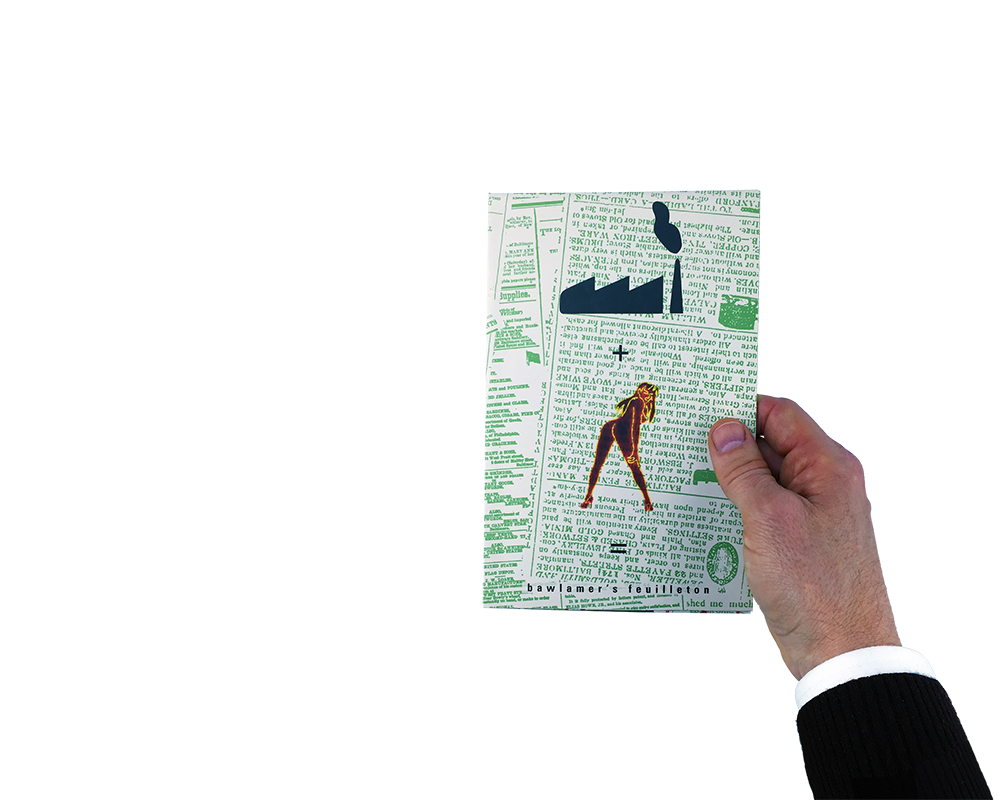
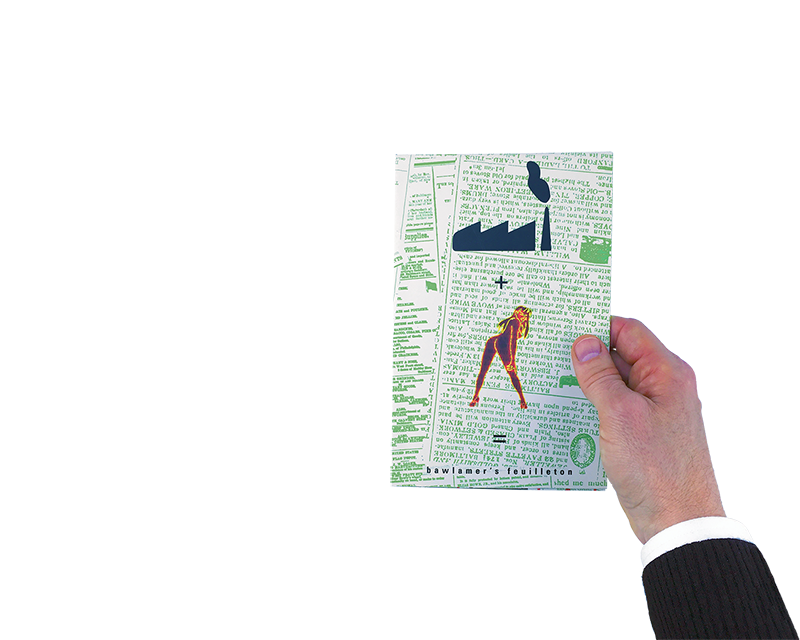
corrects small hands pictures

Changed region(s): [[0.4688, 0.2188, 1.0, 1.0]]

diff --git a/_posts/2016-08-22-bawlamers-feuilleton.html b/_posts/2016-08-22-bawlamers-feuilleton.html
@@ -13,19 +13,19 @@ description:
       <div class="container">
 
         <div class="row">
-          <div class="col-sm-9">
+          <div class="col-sm-3">
             <div class="left-column">
-                <img src="/media/bawlamers-feuilleton/zine_general.jpg">
+                <div class="hands"><img src="/media/bawlamers-feuilleton/hand1.png"></div>
+                <div class="hands"><img src="/media/bawlamers-feuilleton/hand2.png"></div>
+                <div class="hands"><img src="/media/bawlamers-feuilleton/hand3.png"></div>
+                <div class="hands"><img src="/media/bawlamers-feuilleton/hand4.png"></div>
+                <div class="hands"><img src="/media/bawlamers-feuilleton/hand5.png"></div>
             </div>
           </div>
 
-          <div class="col-sm-3">
+          <div class="col-sm-8 col-sm-offset-1">
             <div class="right-column">
-                <img class="hands" src="/media/bawlamers-feuilleton/hand1.png">
-                <img class="hands" src="/media/bawlamers-feuilleton/hand2.png">
-                <img class="hands" src="/media/bawlamers-feuilleton/hand3.png">
-                <img class="hands" src="/media/bawlamers-feuilleton/hand4.png">
-                <img class="hands" src="/media/bawlamers-feuilleton/hand5.png">
+                <img src="/media/bawlamers-feuilleton/zine_general.jpg">
             </div>
           </div>
         </div>

diff --git a/_sass/_bawlamers-feuilleton.scss b/_sass/_bawlamers-feuilleton.scss
@@ -2,7 +2,7 @@
 // $serif-text:'Playfair Display', serif;
 // $beige:#F9F7ED;
 // $transition-time:.2s;
-$background:#aaa;
+$background:#ddd;
 
 // Code
 #bawlamers-feuilleton{
@@ -11,41 +11,47 @@ $background:#aaa;
   .left-column{
     display: flex;
     flex-direction: column;
-    align-items: center;
-    padding:5rem 0;
-
-    img{
-      max-width: 700px;
-    }
-
-  }
-
-  .right-column{
-    display: flex;
-    flex-direction: column;
-    align-items: center;
+    align-items: flex-end;
   }
 
   .hands{
-    width: 100%;
     margin-bottom:10rem;
     position:relative;
 
+    img{
+      mix-blend-mode:darken;
+      // mix-blend-mode:color-burn;
+      // filter:grayscale(.5);
+      width: 100%;
+    }
   }
 
-  .hands::after{
-    content:'';
-    position:absolute;
-    width:100px;
-    bottom:0;
-    left:0;
-    background:#fff;
-    height:1px;
-    z-index:10;
+  .hands:first-child{
+    margin-top:5.5rem;
   }
 
   .hands:last-child{
     margin-bottom:0rem;
+  }
+
+  .hands:after{
+    content:"";
+    position:absolute;
+    width:999px;
+    bottom:0;
+    right:0;
+    background:#fff;
+    height:1px;
+  }
+
+  .right-column{
+    padding:10rem 0;
+    position:relative;
+
+    img{
+      width: 100%;
+    }
+
   }
 
 }
